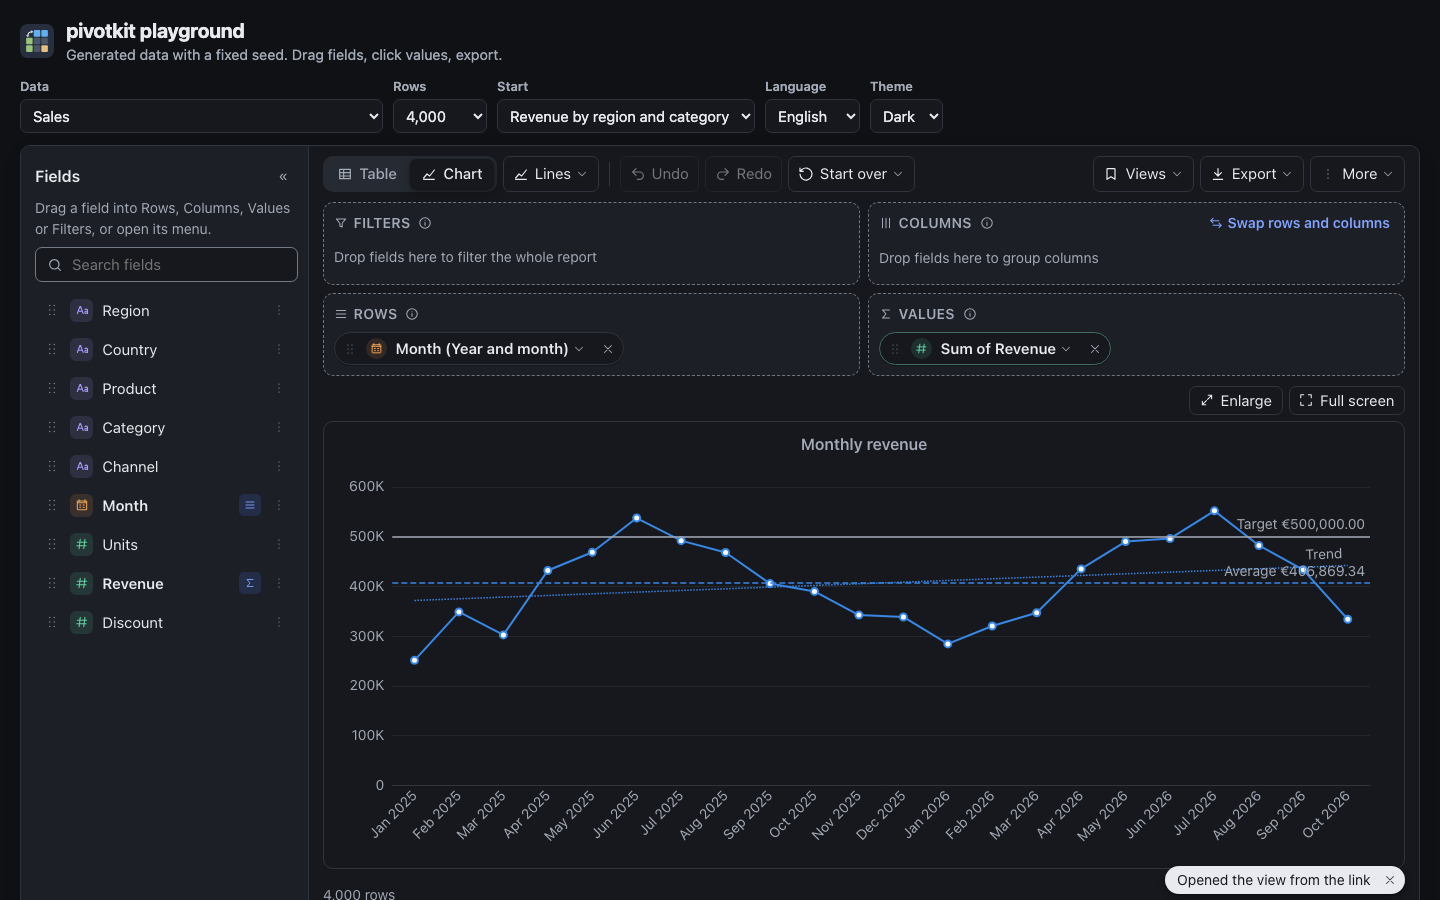
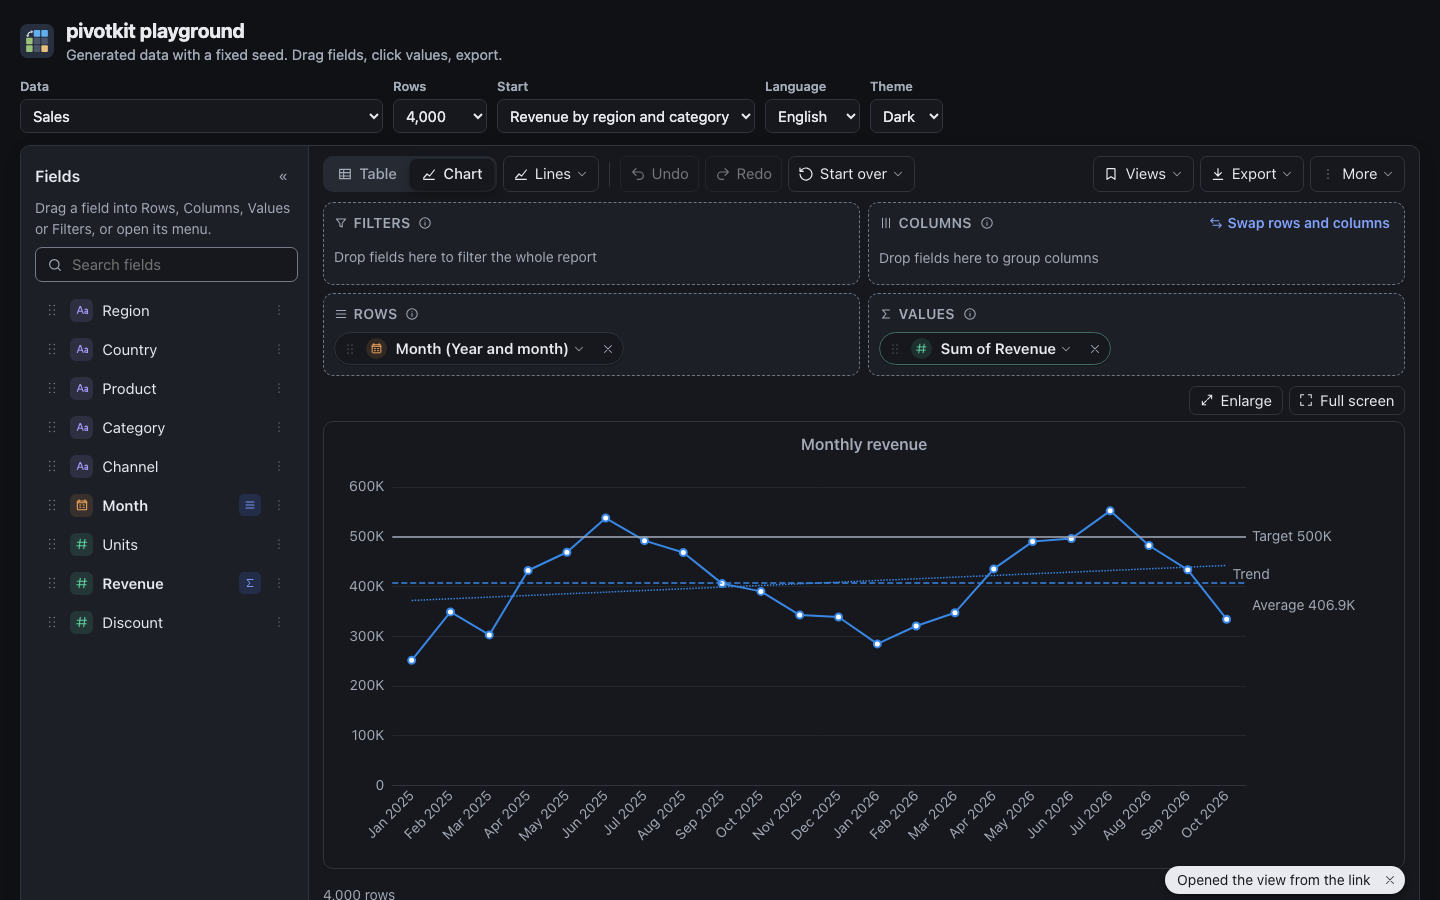
docs: reference lines over real time, the notes, a target in percent, the unweighted average
Refs #48

diff --git a/docs/use/charts.md b/docs/use/charts.md
@@ -167,9 +167,11 @@ target you set.
 | Trend | dotted, in the series' colour | a straight line fitted through the series' values, from its first to its last point |
 | Target | solid, in a neutral colour | the number you typed, once for the whole chart |
 
-- Each line has a label with its name and its value, such as "Average 25".
+- Each line has a label right of the plot with its name and its value, written short as on the
+  axis, such as "Target 500K". Labels of lines close together move apart. On a chart narrower than
+  480 px, such as on a phone, the labels name the lines only.
 - The value axis reaches every line. A target higher than every bar still shows.
-- The tooltip lists the lines at the category: a trend with its value there.
+- The tooltip lists the lines at the category with their whole values: a trend with its value there.
 - The chart image, the HTML report and the chart as SVG draw the lines too.
 - The lines stay with the report: in saved views, links and the chart image.
 
@@ -182,9 +184,13 @@ target you set.
     - **Stacked bars and areas** draw the lines of the stack's total, the sum of its parts. Only sums
       and counts add up. A stack of averages, medians or maximums gets no lines at all, not even a
       target: the height of such a stack is no total.
+    - **A stack with a part below zero** has no single total. It gets no average and no trend. The
+      target stays.
     - **A trend** needs dates on Rows, such as "Created by month", in date order. Categories such
       as countries have no order of their own, so a line through them would be made up. A sort by
       value takes the date order away too.
+    - **A target** needs values in one unit. With a count beside a sum, or two values in different
+      formats, no single target fits, so the chart draws none.
 
     A setting that does not apply stays in the view. When you switch back to a chart that can draw
     the line, it is there again.
@@ -192,11 +198,17 @@ target you set.
 ??? info "What the numbers are"
     - pivotkit works out the lines from the categories the chart draws. A chart draws at most 50.
     - The average and the trend leave out a category without a value.
-    - A trend fits a straight line to the points by least squares. The categories count as evenly
-      spaced, even when a month in between has no data.
-    - The target is a number in the value's own unit. For a value shown as a percentage, type the
-      share: 0.25 for 25 %.
-    - A label writes its number in the value's format. An average of whole numbers keeps its decimals.
+    - The average is the plain mean of the points in the chart. For a value that is itself an
+      average, such as the average order per month, the line is the mean of those averages. It does
+      not weigh a month by its number of orders.
+    - A trend fits a straight line to the points by least squares, over the real time between them.
+      A gap of 8 months counts as 8 months, so the line bends where the axis leaves the gap out.
+      When a category has no date, such as "(blank)", the trend counts the categories as evenly
+      spaced, and the menu says so.
+    - The target is a number in the value's own unit. For a value shown as a percentage, type
+      "25%" or the share, 0.25. The menu shows a hint under the field for such a value.
+    - The tooltip and the text for screen readers write the numbers in the value's format. An
+      average of whole numbers keeps its decimals.
 
 ## Read the chart
 

diff --git a/docs/reference/core.md b/docs/reference/core.md
@@ -366,20 +366,20 @@ such as weekday counts as categories. A date on Columns alone gives `"bar"`. A U
 there swaps rows and columns for the chart. pivotkit-react and pivotkit-report do so through
 `chartPlan`.
 
-### `referenceLineRules(view, chart, data)` and `valueAddsUp(value)`
+### `referenceLineRules(view, chart, data)`
 
-Which reference lines (`chart.referenceLines`) a chart can draw. `chart` is what is drawn,
-`chartPlan`'s `chart`, never `"auto"`. It gives `{ average, trend, target }`, each `true` or `false`:
+Which reference lines (`chart.referenceLines`) a chart can draw, by the view alone. `chart` is what
+is drawn, `chartPlan`'s `chart`, never `"auto"`. It gives `{ average, trend, target }`, each `true`
+or `false`:
 
 - Pie, donut and heatmap: none.
 - Bars, lines and areas side by side: all three. A trend only along a time line: every field on
   Rows a date or a grouping of one along the time line, none sorted by a value or by hand.
-- Stacked: all three when every value adds up, else none.
+- Stacked: all three when every value adds up, else none. A stack to 100 % (`chart.stackPercent`)
+  draws none.
 
-`valueAddsUp(value)` says whether a view's value adds up across a category's series: an additive
-aggregator (`CATALOG.additiveAggregators`), shown as itself or as a type of
-`CATALOG.additiveShowAs`. One that walks an axis must walk the rows. The chart's tooltip uses it for
-a stack's total. [Charts](../concepts/charts.md#reference-lines) has the table.
+`referenceLineChecks` in [`pivotkit-core/chart`](#chart-marks) adds what depends on the numbers.
+[Charts](../concepts/charts.md#reference-lines) has the table.
 
 ### `chartPlan(view, data)`, `swapAxes(view)` and `chartThemeFrom(style)`
 
@@ -429,7 +429,17 @@ the order a chart draws them: the averages, the trends, the target. Each line ha
 - `format(value)`: writes a value in the series' format.
 
 `chart` is what is drawn (`chartPlan`'s), `series` the `toSeries` result when the caller has it.
-`toEChartsOption` draws them as `markLine`s.
+`toEChartsOption` draws them as `markLine`s. A trend's `at(index)` follows the categories' real time.
+
+`referenceLineChecks(result, { chart, series })` gives `{ average, trend, target, notes }`:
+`referenceLineRules` with what depends on the numbers. A stack with a part below zero has no average
+or trend. A target over values in different units is off. `notes` says why, as codes: `"noTotal"`,
+`"percentStack"`, `"negative"`, `"noTime"`, `"byIndex"` and `"mixedUnits"`.
+
+`valueAddsUp(value)` says whether a view's value adds up across a category's series: an additive
+aggregator (`CATALOG.additiveAggregators`), shown as itself or as a type of
+`CATALOG.additiveShowAs`. One that walks an axis must walk the rows. The tooltip's total and a
+stack's reference lines use it.
 
 `decorateOption(option, style, { width, height, categoryNames, axisLabels, tooltipFormatter, readColor })` puts
 a report's marks on `toEChartsOption`'s option:

diff --git a/docs/concepts/charts.md b/docs/concepts/charts.md
@@ -84,21 +84,37 @@ A pie, a donut and a heatmap always show the slice or cell under the pointer.
   `pivotkit-core/chart`) and draws them as ECharts `markLine`s on the series.
 - The lines are silent: a click opens no rows. The tooltip names them.
 - The value axis reaches every line (`dataMin` and `dataMax`).
+- A label writes the value as the value axis does. `decorateOption` puts the labels right of the
+  plot and keeps them a line apart. Below 480 px it writes the names only.
 
-One rule decides which chart draws which line: `referenceLineRules(view, chart, data)` in
-pivotkit-core. The chart, the menu and the report's SVG use it.
+Two functions decide which chart draws which line. The chart, the menu and the report's SVG use
+them:
+
+- `referenceLineRules(view, chart, data)` in pivotkit-core's main entry decides by the view alone.
+- `referenceLineChecks(result, { chart, series })` in `pivotkit-core/chart` adds what depends on the
+  numbers, and gives `notes` that say why a line is off.
 
 | Chart | Average | Trend | Target |
 | --- | --- | --- | --- |
 | Pie, donut, heatmap | no | no | no |
-| Bars, lines, areas side by side | per series | per series, along a time line | yes |
-| Stacked, every value adds up | of the stack's total | of the stack's total, along a time line | yes |
-| Stacked, a value does not add up | no | no | no |
+| Bars, lines, areas side by side | per series | per series, along a time line | yes, in one unit |
+| Stacked, every value adds up | of the stack's total | of the stack's total, along a time line | yes, in one unit |
+| Stacked, a part below zero | no | no | yes, in one unit |
+| Stacked, a value does not add up, or stacked to 100 % | no | no | no |
 
-- "Adds up" is `valueAddsUp(value)`, the same rule as the tooltip's total.
+- "Adds up" is `valueAddsUp(value)` in `pivotkit-core/chart`, the same rule as the tooltip's total.
 - "Along a time line" means every field on Rows is a date or a grouping of one along the time line.
   A sort by a value or by hand takes that order away.
+- "In one unit" means one format, and no count beside a field's values.
+- A series hidden in the legend (`chart.hidden`) has no lines and is no part of a stack's total.
 - A setting that does not apply stays in the view and draws again where it applies.
+
+The notes are `"noTotal"`, `"percentStack"`, `"negative"`, `"noTime"`, `"byIndex"` (a category
+without a date, so the trend counts the categories' order) and `"mixedUnits"`.
+
+A trend fits a straight line over the categories' real time: years, quarters, months, ISO weeks or
+days, from each category's key. It is drawn from category to category, so it bends where the axis
+leaves a gap out. An average is the unweighted mean of the plotted points, also of averages.
 
 A series' lines take its colour. The lines of no series, a target and a stack's total, take
 `--pk-chart-reference`.

diff --git a/packages/pivotkit-core/CHANGELOG.md b/packages/pivotkit-core/CHANGELOG.md
@@ -9,13 +9,20 @@ All notable changes to `pivotkit-core` are documented in this file. The format i
 ### Added
 
 - `chart.referenceLines` in the view: an average and a linear trend, switched on or off, and a
-  target as a number, drawn on bars, lines and areas as silent ECharts `markLine`s. The value axis
-  reaches every line. `referenceLineRules(view, chart, data)` says which chart draws which line:
-  none on a pie, a donut or a heatmap, a stack's total only when every value adds up, a trend only
-  along a time line. `valueAddsUp(value)` is the rule of what adds up. `referenceLines(result)` in
-  `pivotkit-core/chart` gives the numbers. `Labels.referenceLines` names them, and
-  `chartThemeFrom` reads `referenceColor` from `--pk-chart-reference`
-  ([#48](https://github.com/eizedev/pivotkit/issues/48)).
+  target as a number, drawn on bars, lines and areas as silent ECharts `markLine`s
+  ([#48](https://github.com/eizedev/pivotkit/issues/48)):
+    - The value axis reaches every line.
+    - A trend fits the categories' real time: a gap of 8 months counts as 8.
+    - A label writes the value as the value axis does. `decorateOption` puts the labels right of
+      the plot, a line apart, and writes the names alone below 480 px.
+    - `referenceLineRules(view, chart, data)` says which chart draws which line: none on a pie, a
+      donut or a heatmap, a stack's total only when every value adds up, a trend only along a time
+      line.
+    - `pivotkit-core/chart` exports `referenceLines(result)`, the numbers, `referenceLineChecks`,
+      the rules with the numbers and their reasons (a stack below zero, values in different units),
+      and `valueAddsUp(value)`, the rule of what adds up.
+    - `Labels.referenceLines` names the lines, and `chartThemeFrom` reads `referenceColor` from
+      `--pk-chart-reference`.
 - `decorateOption` takes `readColor`: a heatmap's colours as ECharts can mix them. An end it returns
   `null` for takes `DEFAULT_THEME.colorScale`'s colour, so a form such as `oklch()` no longer turns
   the cells black ([#386](https://github.com/eizedev/pivotkit/issues/386)).

diff --git a/docs/reference/element.md b/docs/reference/element.md
@@ -550,7 +550,7 @@ CI runs the same command on Node 24 and measures the same numbers. It fails when
 | Loaded | Files | Size | gzip |
 | --- | ---: | ---: | ---: |
 | First (`index.js` and its static imports: React, ReactDOM, pivotkit-react, pivotkit-core, @dnd-kit, styles) | 11 | 529 KiB | 173 KiB |
-| On the first chart (ECharts with bar, line, pie (also the donut), heatmap, the components they use, the title and the reference lines' markLine among them, the canvas renderer, pivotkit-core's ECharts option and the layout of the chart's labels) | 2 | 666 KiB | 229 KiB |
+| On the first chart (ECharts with bar, line, pie (also the donut), heatmap, the components they use, the title and the reference lines' markLine among them, the canvas renderer, pivotkit-core's ECharts option and the layout of the chart's labels) | 2 | 670 KiB | 230 KiB |
 | On the first export or copy (pivotkit-core's export, and fflate as a chunk it shares with the link; the Export menu and the drill-down's start loading it when they open) | 3 | 28 KiB | 12 KiB |
 | On the first shared link, Copy link or loaded link (pivotkit-core's link with fflate) | 2 | 15 KiB | 7 KiB |
 | Right after the first render (the menus' panels with their levels, the Filter level with its summary, quick choices, items and rules, the Export menu, the drill-down's panel and its table, sharing's copy, download and load, and the English texts only they show) | 2 | 148 KiB | 48 KiB |

diff --git a/packages/pivotkit-react/CHANGELOG.md b/packages/pivotkit-react/CHANGELOG.md
@@ -19,8 +19,9 @@ All notable changes to `pivotkit-react` are documented in this file. The format 
 
 - Display → **Reference lines** in the chart type menu, for bars, lines and areas: **Average**,
   **Trend** and a **Target** (`chart.referenceLines`, [#48](https://github.com/eizedev/pivotkit/issues/48)).
-  The menu offers only the lines the chart can draw, with a note on the rest. The tooltip names the
-  lines at the category, and the chart's text alternative names each with its value.
+  The menu offers only the lines the chart can draw, with a note on the rest. The Target field reads
+  "25%" as a share, with a hint for a value shown in percent. The tooltip names the lines at the
+  category, and the chart's text alternative names each with its value.
 - `labels.chartLines` and `labels.chartTrendSpan`: the reference lines in the chart's text
   alternative ("Reference lines: {lines}.", "from {from} to {to}"), and the token
   `--pk-chart-reference` for a target and the lines of a stack's total (default `--pk-muted`).

diff --git a/packages/pivotkit-element/CHANGELOG.md b/packages/pivotkit-element/CHANGELOG.md
@@ -19,7 +19,7 @@ All notable changes to `pivotkit-element` are documented in this file. The forma
 
 - Reference lines in the chart: Display → **Reference lines** with **Average**, **Trend** and a
   **Target** ([#48](https://github.com/eizedev/pivotkit/issues/48)). The chart's chunk carries
-  ECharts' markLine component for them: about 229 KiB gzip instead of 222.
+  ECharts' markLine component for them: about 230 KiB gzip instead of 222.
 - `drill-down-export` (boolean attribute) and the `drillDownExport` property: the drill-down panel's
   copy and download while `export-data` is off. As pivotkit-react's `drillDownExport`.
 

diff --git a/docs/compare.md b/docs/compare.md
@@ -125,7 +125,7 @@ project's own docs name.
 - **Size**: PivotTable.js's core is 6.3 KB gzip by its README, without charts. Graphic Walker's FAQ
   names about 1.5 MB minified, roughly 400 KB gzip, with Vega-Lite. pivotkit's web component loads:
     - first: about 173 KiB gzip, with React inside
-    - on the first chart: the chart's code, about 229 KiB gzip, ECharts with it
+    - on the first chart: the chart's code, about 230 KiB gzip, ECharts with it
 
     Measured with `npm run size -w pivotkit-element` on 2026-11-17. See
     [bundle size](reference/element.md#bundle-size).
